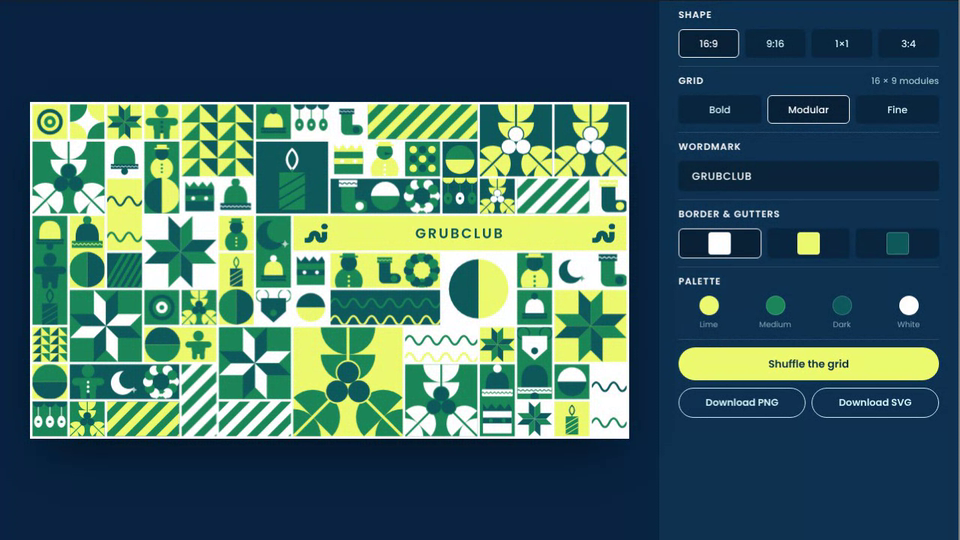
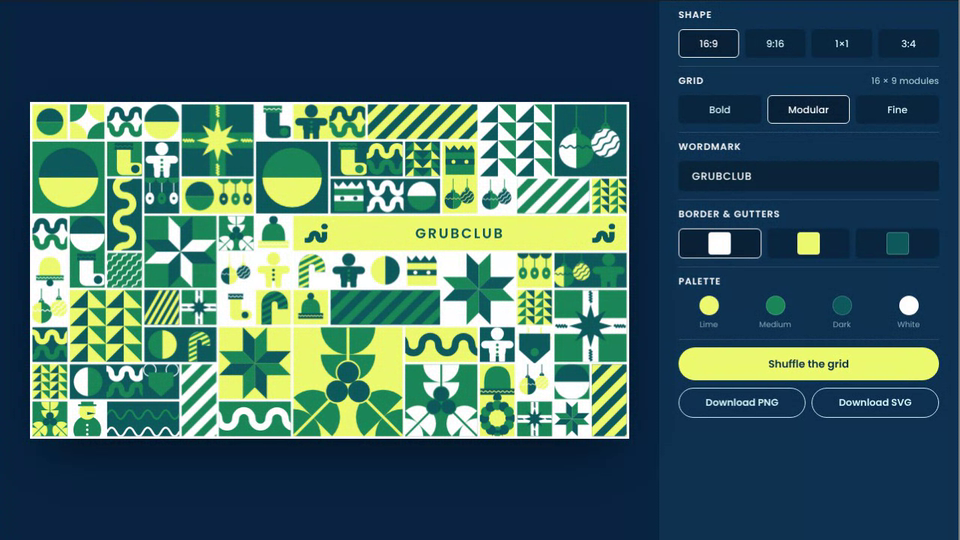
Grubclub Holiday Grid: double bauble replaces moon, simple flat-star gift, chunky worm-line squiggle tiles
Claude-Session: https://claude.ai/code/session_01AHeBdyRCcuLFjvrTGpsW3f

Changed region(s): [[0.0312, 0.1778, 0.6562, 0.8296]]

diff --git a/grubclub-holiday/index.html b/grubclub-holiday/index.html
@@ -126,9 +126,12 @@ const leaf = (cx, cy, len, wid, deg, fill, vein) => rot(deg, cx, cy, `<path d="M
 const halfL = (cx, cy, r, fill) => `<path d="M${cx} ${cy - r} A${r} ${r} 0 0 0 ${cx} ${cy + r}Z" fill="${fill}"/>`;
 const halfR = (cx, cy, r, fill) => `<path d="M${cx} ${cy - r} A${r} ${r} 0 0 1 ${cx} ${cy + r}Z" fill="${fill}"/>`;
 const poly = (pts, fill) => `<polygon points="${pts.map((p) => p.map(f).join(',')).join(' ')}" fill="${fill}"/>`;
-/* faceted star built from kites: long points N/E/S/W, short points on the diagonals, each point split into two tones */
-const star8 = (cx, cy, R, c1, c2, longK = 1, shortK = .74) => { let s = ''; for (let i = 0; i < 8; i++) { const an = (i * 45 - 90) * Math.PI / 180, ln = R * (i % 2 ? shortK : longK), vr = R * .4, a1 = an - Math.PI / 8, a2 = an + Math.PI / 8; const P = (a, r) => [cx + Math.cos(a) * r, cy + Math.sin(a) * r]; s += poly([[cx, cy], P(a1, vr), P(an, ln)], c1) + poly([[cx, cy], P(an, ln), P(a2, vr)], c2); } return s; };
 const splitCircle = (k, r = 46) => halfL(50, 50, r, k.a) + halfR(50, 50, r, k.b);
+
+/* chunky worm-line squiggle: arches of semicircles drawn with a thick round-capped stroke (bleeds off the tile) */
+const archWave = (x0, y, r, n, col, sw, flip) => { let d = `M${f(x0)} ${f(y)}`; for (let i = 0; i < n; i++) d += ` A${f(r)} ${f(r)} 0 0 ${(i + (flip ? 1 : 0)) % 2 ? 0 : 1} ${f(x0 + 2 * r * (i + 1))} ${f(y)}`; return `<path d="${d}" fill="none" stroke="${col}" stroke-width="${f(sw)}" stroke-linecap="round"/>`; };
+const contrastOf = (c1, c2) => { const a = lum(c1), b = lum(c2); return (Math.max(a, b) + .05) / (Math.min(a, b) + .05); };
+const squigCols = (k) => [k.a, k.b, k.x].sort((u, v) => contrastOf(v, k.bg) - contrastOf(u, k.bg));
 
 const ICON = {
   /* thin cap and loop, big round bauble, split tone or wavy diagonal lines */
@@ -142,8 +145,6 @@ const ICON = {
   bell: (k) => `<path d="M16 68 V50 Q16 8 50 8 Q84 8 84 50 V68Z" fill="${k.a}"/><rect x="6" y="66" width="88" height="16" fill="${k.b}"/>` + zig(6, 94, 74, 3.4, 8, k.bg, 2.4) + circ(50, 90, 11, k.x),
   hat: (k) => `<path d="M20 70 V58 Q20 22 50 22 Q80 22 80 58 V70Z" fill="${k.a}"/><rect x="10" y="68" width="80" height="18" rx="2" fill="${k.b}"/>` + zig(10, 90, 77, 3.4, 8, k.bg, 2.4) + circ(50, 14, 11, k.x),
   /* wrapped gift: full tile, ribbon cross, star bow */
-  gift: (k) => `<rect x="0" y="0" width="100" height="100" fill="${k.a}"/><rect x="40" y="0" width="20" height="100" fill="${k.b}"/><rect x="0" y="40" width="100" height="20" fill="${k.b}"/>` +
-    `<path d="M50 4 V38 M50 62 V96" stroke="${k.a}" stroke-width="2.4" stroke-linecap="round" fill="none"/>` + star8(50, 50, 30, k.bg, k.x, 1, .7),
   /* thick candy cane with diagonal stripes */
   cane: (k) => { const id = 'cm' + (uid++), d = 'M32 104 V42 A21 21 0 0 1 74 42 V54'; return `<mask id="${id}"><path d="${d}" stroke="#fff" stroke-width="26" fill="none"/></mask><path d="${d}" stroke="${k.a}" stroke-width="26" fill="none"/><g mask="url(#${id})">${Array.from({ length: 16 }, (_, i) => `<path d="M-10 ${i * 17 - 10} L110 ${i * 17 - 70}" stroke="${k.b}" stroke-width="7"/>`).join('')}</g>`; },
   candle: (k) => `<rect x="30" y="42" width="40" height="58" fill="${k.a}"/><path d="M30 84 L70 60 M30 100 L70 76 M30 68 L70 44" stroke="${k.bg}" stroke-width="2.6" fill="none" clip-path="inset(0)"/>` +
@@ -159,8 +160,15 @@ const ICON = {
   treeC: (k) => circ(50, 24, 17, k.a) + circ(50, 50, 24, k.b) + circ(50, 80, 28, k.a) + circ(50, 6, 5.5, k.x) + circ(42, 52, 3.6, k.bg) + circ(60, 46, 3.6, k.bg) + circ(38, 82, 4, k.bg) + circ(58, 84, 4, k.bg) + circ(70, 76, 4, k.x),
   wreath: (k) => Array.from({ length: 12 }, (_, i) => { const an = i / 12 * Math.PI * 2; return circ(50 + Math.cos(an) * 34, 50 + Math.sin(an) * 34, 13, i % 2 ? k.b : k.a); }).join('') + circ(50, 50, 20, k.bg) +
     circ(40, 82, 4.5, k.x) + circ(50, 85, 4.5, k.x) + circ(60, 82, 4.5, k.x) + poly([[50, 84], [36, 96], [36, 74]], k.x) + poly([[50, 84], [64, 96], [64, 74]], k.x),
-  moon: (k) => circ(44, 54, 38, k.a) + circ(64, 42, 31, k.bg) + star8(80, 76, 11, k.x, k.x, 1, .5),
   scallop: (k) => [0, 1, 2].map((i) => { const cx = 16.65 + i * 33.3; return `<path d="M${i * 33.3} 0 A16.65 16.65 0 0 0 ${(i + 1) * 33.3} 0Z" fill="${k.a}"/>` + line(`M${cx} 16 V40`, k.b, 2.4) + `<ellipse cx="${cx}" cy="58" rx="12" ry="17" fill="${i % 2 ? k.x : k.b}"/>` + circ(cx, 58, 4, k.bg); }).join(''),
+  /* two hanging baubles, different sizes: one split in two tones, one with wavy lines */
+  doubleBauble: (k) => { const id = 'db' + (uid++); const bauble = (cx, cy, r, top, body) => `<path d="M${cx} ${top - 4} V${cy - r - 9}" stroke="${k.b}" stroke-width="2.2" fill="none"/>` + line(`M${cx - 3.4} ${cy - r - 1} V${cy - r - 5} A3.4 3.4 0 1 1 ${cx + 3.4} ${cy - r - 5} V${cy - r - 1}`, k.b, 2.4) + `<rect x="${cx - 7}" y="${cy - r - 5}" width="14" height="8" rx="1.5" fill="${k.b}"/>` + body;
+    return bauble(28, 66, 27, 0, halfL(28, 66, 27, k.a) + halfR(28, 66, 27, k.b) + zig(3, 53, 60, 4, 4, k.bg, 2.3)) +
+      bauble(73, 54, 22, 0, `<clipPath id="${id}"><circle cx="73" cy="54" r="22"/></clipPath>` + circ(73, 54, 22, k.a) + `<g clip-path="url(#${id})"><g transform="rotate(-40 73 54)">${[0, 1, 2, 3, 4].map((i) => zig(30, 120, 34 + i * 11, 3.4, 5, k.bg, 2.3)).join('')}</g></g>`); },
+  /* wrapped gift: ribbon cross with a wavy line and one flat eight-point star */
+  gift: (k) => { const wave = (x0, y0, x1, y1) => { const n = 4, dx = (x1 - x0) / (n * 2), dy = (y1 - y0) / (n * 2), horiz = dy === 0; let d = `M${x0} ${y0}`; for (let i = 0; i < n * 2; i++) { const t = i + .5; d += horiz ? ` Q${f(x0 + dx * t)} ${y0 + (i % 2 ? 3.6 : -3.6)} ${f(x0 + dx * (i + 1))} ${y0}` : ` Q${x0 + (i % 2 ? 3.6 : -3.6)} ${f(y0 + dy * t)} ${x0} ${f(y0 + dy * (i + 1))}`; } return `<path d="${d}" fill="none" stroke="${k.s}" stroke-width="2.2" stroke-linecap="round"/>`; };
+    let pts = ''; for (let i = 0; i < 16; i++) { const an = (i * 22.5 - 90) * Math.PI / 180, rr = i % 2 ? 13 : 30; pts += `${f(50 + Math.cos(an) * rr)},${f(50 + Math.sin(an) * rr)} `; }
+    return `<rect x="39" y="0" width="22" height="100" fill="${k.r}"/><rect x="0" y="39" width="100" height="22" fill="${k.r}"/>` + wave(50, 2, 50, 17) + wave(50, 83, 50, 98) + wave(2, 50, 17, 50) + wave(83, 50, 98, 50) + `<polygon points="${pts}" fill="${k.s}"/>`; },
   /* ---- exact geometric blocks (square, full bleed): pinwheel star, triangle tree, holly. Colours come from GEO below. ---- */
   /* 3x3 quilt star: corner squares and edge notches are background, four arms of two parallelograms each, turned as a pinwheel */
   pinwheel: (k) => [0, 90, 180, 270].map((d) => rot(d, 50, 50, poly([[100 / 3, 0], [50, 100 / 6], [50, 50], [100 / 3, 100 / 3]], k.p) + poly([[200 / 3, 0], [50, 100 / 6], [50, 50], [200 / 3, 100 / 3]], k.q))).join(''),
@@ -173,6 +181,7 @@ const ICON = {
     const motif = (d, o) => rot(d, 50, 50, `<g transform="translate(0 ${-o})"><g fill="${k.leaf}">${lv}</g><path d="M50 0 V${46 + o}" stroke="${k.bg}" stroke-width="2.6"/></g>`);
     const bs = [[50, 41.5], [40, 58.8], [60, 58.8]]; return motif(0, 0) + motif(135, off) + motif(225, off) + bs.map(([x, y]) => circ(x, y, 11.4, k.bg)).join('') + bs.map(([x, y]) => circ(x, y, 10, k.berry)).join(''); },
   /* abstract grid fillers */
+  squiggle: (k, v) => { const [c1, c2] = squigCols(k); return archWave(-14, 28, 14, 6, c1, 16, v) + archWave(-14, 72, 14, 6, c2, 16, !v); },
   halfdisc: (k, v) => rot(v ? 90 : 0, 50, 50, splitCircle(k, 46)),
   rings: (k) => circ(50, 50, 44, k.a) + circ(50, 50, 32, k.bg) + circ(50, 50, 20, k.b) + circ(50, 50, 8, k.bg),
   quarters: (k) => `<path d="M0 0 H50 A50 50 0 0 1 0 50Z" fill="${k.a}"/><path d="M100 0 V50 A50 50 0 0 1 50 0Z" fill="${k.b}"/><path d="M0 100 V50 A50 50 0 0 1 50 100Z" fill="${k.b}"/><path d="M100 100 H50 A50 50 0 0 1 100 50Z" fill="${k.a}"/>`,
@@ -182,9 +191,9 @@ const ICON = {
   wavyDiag: (k) => rot(-45, 50, 50, [-20, 0, 20, 40, 60, 80, 100, 120].map((y) => zig(-30, 130, y, 5, 8, k.a, 3.4)).join(''))
 };
 /* plain split circles (two half circles in varying colour pairs) and the three exact geometric blocks, weighted up */
-const ICONS_FULL = ['ornament', 'reindeer', 'bell', 'hat', 'gift', 'cane', 'candle', 'stocking', 'elf', 'snowman', 'ginger', 'wreath', 'moon', 'scallop', 'pinwheel', 'pinwheel', 'pinwheel', 'holly', 'holly', 'holly', 'treeTri', 'treeTri', 'treeTri', 'halfdisc', 'halfdisc', 'halfdisc', 'halfdisc'];
-const FILLERS = ['halfdisc', 'rings', 'quarters', 'dots', 'tris', 'stripesDiag', 'wavyDiag'];
-const BLEED = { tris: 1, quarters: 1, gift: 1, stripesDiag: 1, wavyDiag: 1, scallop: 1, elf: 1 };
+const ICONS_FULL = ['ornament', 'reindeer', 'bell', 'hat', 'gift', 'cane', 'candle', 'stocking', 'elf', 'snowman', 'ginger', 'wreath', 'doubleBauble', 'scallop', 'doubleBauble', 'gift', 'squiggle', 'squiggle', 'pinwheel', 'pinwheel', 'pinwheel', 'holly', 'holly', 'holly', 'treeTri', 'treeTri', 'treeTri', 'halfdisc', 'halfdisc', 'halfdisc', 'halfdisc'];
+const FILLERS = ['squiggle', 'halfdisc', 'rings', 'quarters', 'dots', 'tris', 'stripesDiag', 'wavyDiag'];
+const BLEED = { squiggle: 1, tris: 1, quarters: 1, gift: 1, stripesDiag: 1, wavyDiag: 1, scallop: 1, elf: 1 };
 
 
 /* ---------- contrast: WCAG ratios, so the geometric blocks only use colour sets that read clearly ---------- */
@@ -193,6 +202,8 @@ const cr = (a, b) => { const x = lum(C[a]), y = lum(C[b]); return (Math.max(x, y
 /* [bg, arm 1, arm 2] for the pinwheel: white or lime arms against dark, dark arms against white or lime; every arm is 4:1 or better on its background, white/dark arms 8:1 */
 const GEO = {
   pinwheel: (r) => { const [bg, p, q] = pick(r, [['W', 'D', 'M'], ['L', 'D', 'M'], ['M', 'W', 'D'], ['M', 'L', 'D'], ['W', 'D', 'M'], ['M', 'W', 'D']]); return { bg: C[bg], p: C[p], q: C[q] }; },
+  /* gift: [bg, ribbon, star]; ribbon on bg and star on ribbon are all 4:1 or better */
+  gift: (r) => { const [bg, rb, st] = pick(r, [['M', 'W', 'D'], ['D', 'W', 'M'], ['W', 'D', 'L'], ['L', 'D', 'W'], ['M', 'D', 'W'], ['D', 'M', 'L']]); return { bg: C[bg], r: C[rb], s: C[st] }; },
   /* [pale, mid, dark]: pale triangles sit on dark (>=7:1) and on mid (>=4:1) */
   treeTri: (r) => { const [p, m, d] = pick(r, [['W', 'M', 'D'], ['L', 'M', 'D'], ['W', 'D', 'M'], ['L', 'D', 'M']]); return { bg: C[p], p: C[p], m: C[m], d: C[d] }; },
   /* [bg, leaf, berry]: leaf on bg >= 3.9:1, berries carry a ring of the bg colour so they stay crisp on the leaves */
@@ -220,11 +231,14 @@ const BANDS = {
       Array.from({ length: n }, (_, i) => { const x = (i + .5) * st; const y = h * .2 + h * .3 * (1 - Math.pow(2 * ((i + .5) % 1) - 1, 2)) * 0; return `<rect x="${f(x - h * .035)}" y="${f(h * .36)}" width="${f(h * .07)}" height="${f(h * .08)}" fill="${k.b === k.bg ? k.a : k.b}"/>` + circ(x, h * .6, Math.min(st * .3, h * .17), cols[i % 3]); }).join(''); },
   garland: (w, h, k) => { const R = h * .42, n = Math.ceil(w / (R * 1.5)); let s = ''; for (let i = 0; i <= n; i++) s += circ(i * w / n, h / 2, R, i % 2 ? (k.b === k.bg ? k.x : k.b) : k.a); for (let i = 0; i < n; i++) s += circ((i + .5) * w / n, h / 2, R * .2, k.x); return s; },
   stripes: (w, h, k) => { const st = Math.min(w, h) * .3; let s = ''; for (let x = -h; x < w + h; x += st * 2) s += `<path d="M${x} ${h} L${x + st} ${h} L${x + st + h} 0 L${x + h} 0Z" fill="${k.a}"/>`; return s; },
+  squiggle: (w, h, k) => { const tall = h > w, W = tall ? h : w, H = tall ? w : h, u = Math.min(W, H), r = u * .24, sw = u * .2, rows = Math.max(1, Math.round(H / (u * 1.05))), [c1, c2] = squigCols(k); let o = '';
+    for (let i = 0; i < rows; i++) o += archWave(-2 * r + (i % 2 ? r : 0), H * (i + .5) / rows, r, Math.ceil(W / (2 * r)) + 3, i % 2 ? c2 : c1, sw, i % 2);
+    return tall ? `<g transform="translate(${f(w)} 0) rotate(90)">${o}</g>` : o; },
   zigzag: (w, h, k) => { const u = Math.min(w, h) * .5; let s = ''; for (let y = h * .25; y < h; y += h * .5) s += zig(0, w, y + u * .25, u * .5, Math.max(2, Math.round(w / u)), y < h * .5 ? k.a : k.b === k.bg ? k.x : k.b, u * .12); return s; },
   snow: (w, h, k, r) => { let s = ''; const n = Math.round(w * h / 1800); for (let i = 0; i < n; i++) s += circ(r() * w, r() * h, 2 + r() * 5, i % 5 ? k.a : k.x); return s; },
   hang: (w, h, k, r) => { const n = Math.max(2, Math.round(w / h * 6 + 1)); let s = ''; for (let i = 0; i < n; i++) { const x = (i + .5) * w / n, rad = Math.min(w / n * .36, h * .13), y = h * (.35 + r() * .5); s += `<line x1="${f(x)}" y1="0" x2="${f(x)}" y2="${f(y - rad)}" stroke="${k.b === k.bg ? k.a : k.b}" stroke-width="${f(rad * .12 + 1)}"/>` + circ(x, y, rad, [k.a, k.x, k.b === k.bg ? k.a : k.b][i % 3]); } return s; }
 };
-const WIDE = ['stripes', 'zigzag', 'stripes'];
+const WIDE = ['squiggle', 'squiggle', 'stripes', 'zigzag'];
 
 /* ---------- layout: pack a grid of 1x1 / 2x1 / 1x2 / 2x2 / 3x3 tiles around the wordmark and hero ---------- */
 function layout(cols, rows, r) {
@@ -296,7 +310,7 @@ function build(anim) {
       body = iconSvg(nm, k, x, y, w, h, GEO[nm] ? 0 : mn * .05);
     } else if (t.kind === 'band' && (t.w !== t.h)) {
       k = scheme(r);
-      const name = pick(r, t.w > t.h ? WIDE : ['stripes', 'zigzag']);
+      const name = pick(r, t.w > t.h ? WIDE : ['squiggle', 'squiggle', 'stripes', 'zigzag']);
       body = `<g transform="translate(${f(x)} ${f(y)})">${BANDS[name](w, h, k, r)}</g>`;
     } else if (t.kind === 'multi') {
       k = scheme(r);
